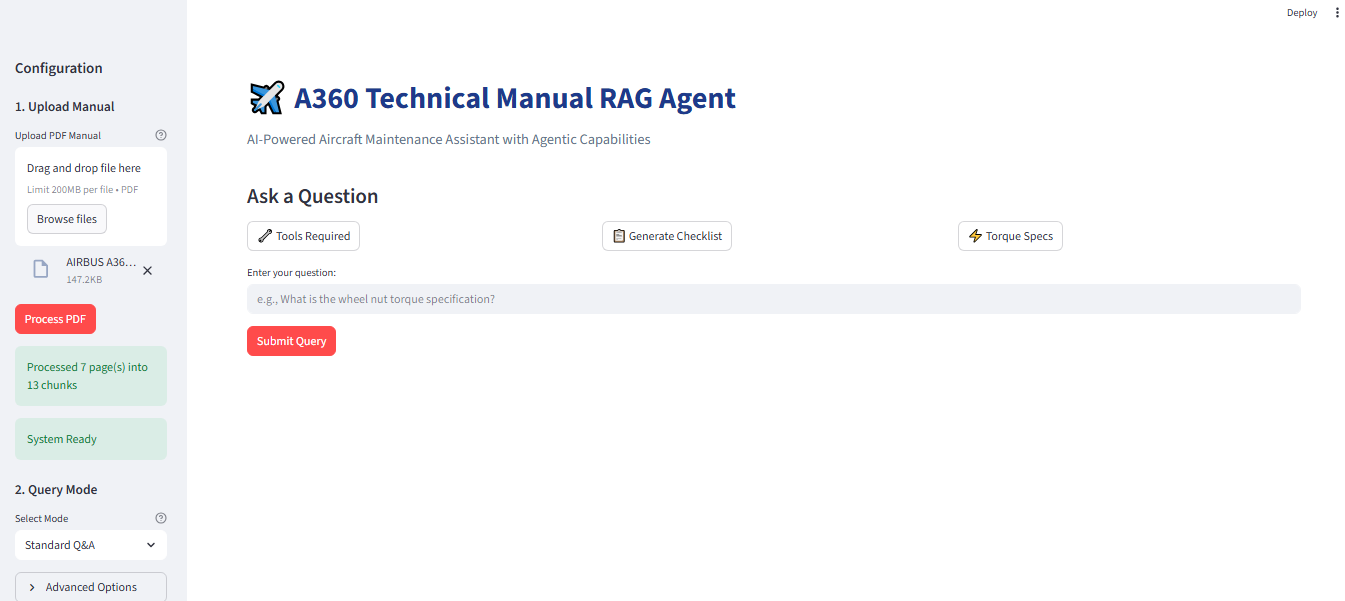
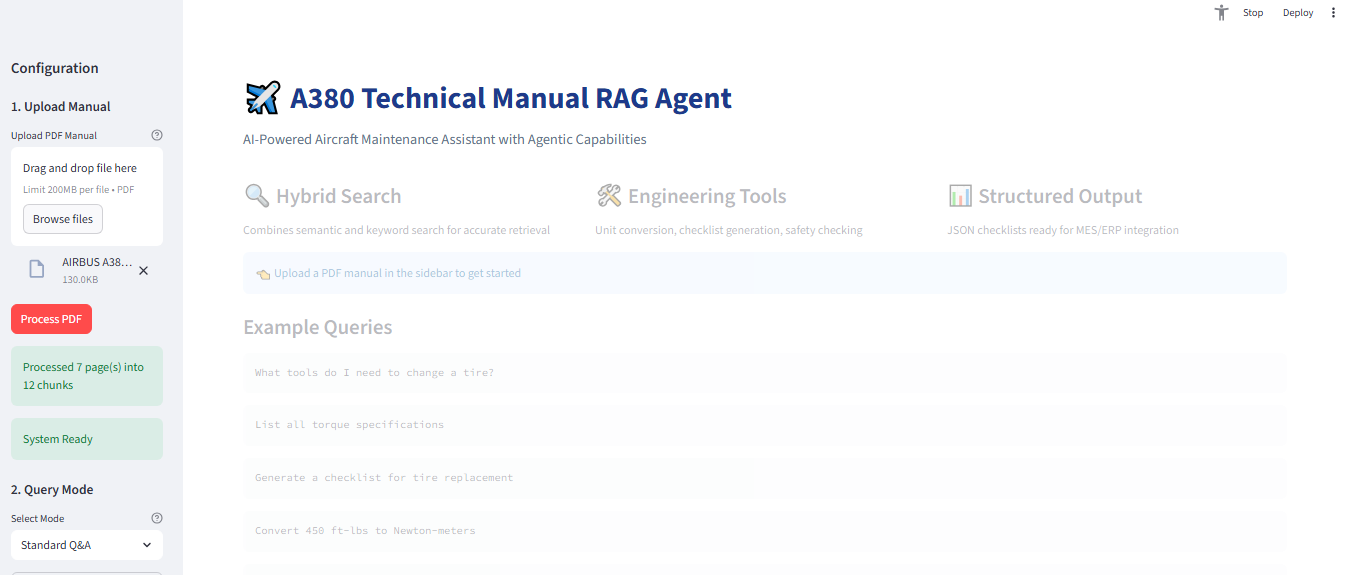
Updates

diff --git a/src/app.py b/src/app.py
@@ -1,4 +1,4 @@
-# app.py - Streamlit UI for A360 Technical Manual RAG Agent
+# app.py - Streamlit UI for A380 Technical Manual RAG Agent
 import os
 import streamlit as st
 import time
@@ -20,7 +20,7 @@ from dotenv import load_dotenv
 # ============================================
 
 st.set_page_config(
-    page_title="A360 RAG Agent",
+    page_title="A380 RAG Agent",
     page_icon="✈",
     layout="wide",
     initial_sidebar_state="expanded"
@@ -401,7 +401,7 @@ Provide a clear, concise answer based on the context."""
 def main():
     
     # Header
-    st.markdown('<div class="main-header">✈ A360 Technical Manual RAG Agent</div>', unsafe_allow_html=True)
+    st.markdown('<div class="main-header">✈ A380 Technical Manual RAG Agent</div>', unsafe_allow_html=True)
     st.markdown('<div class="sub-header">AI-Powered Aircraft Maintenance Assistant with Agentic Capabilities</div>', unsafe_allow_html=True)
     
     # Sidebar

diff --git a/src/__init__.py b/src/__init__.py
@@ -1,2 +1,2 @@
-"""A360 Technical Manual RAG Agent"""
+"""A380 Technical Manual RAG Agent"""
 __version__ = "1.0.0"

diff --git a/docs/ARCHITECTURE.md b/docs/ARCHITECTURE.md
@@ -2,7 +2,7 @@
 
 ## Overview
 
-The A360 RAG Agent implements a hybrid retrieval pipeline optimized for technical documentation with agentic tool integration.
+The A380 RAG Agent implements a hybrid retrieval pipeline optimized for technical documentation with agentic tool integration.
 
 ## High-Level Architecture
 ```

diff --git a/README.md b/README.md
@@ -1,4 +1,4 @@
-# A360 Technical Manual RAG Agent
+# A380 Technical Manual RAG Agent
 
 AI-powered assistant for aircraft maintenance documentation with agentic capabilities for checklist generation, safety compliance verification, and engineering workflow integration.
 
